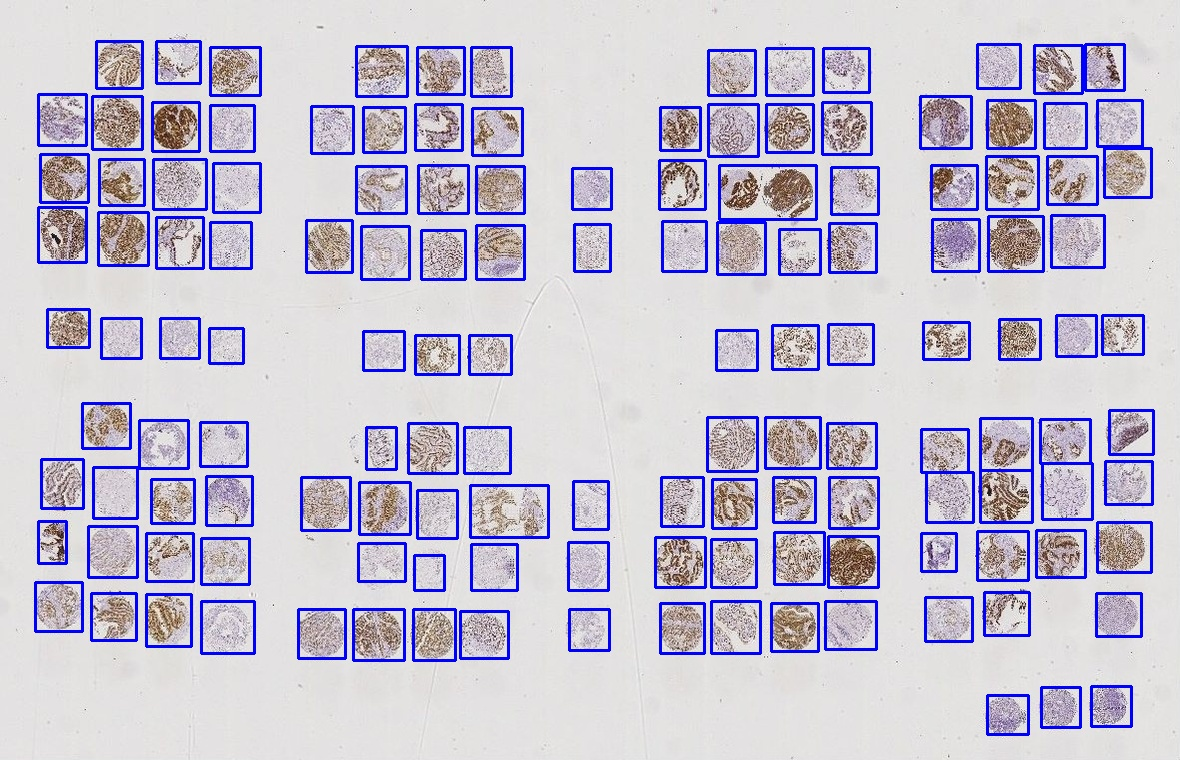
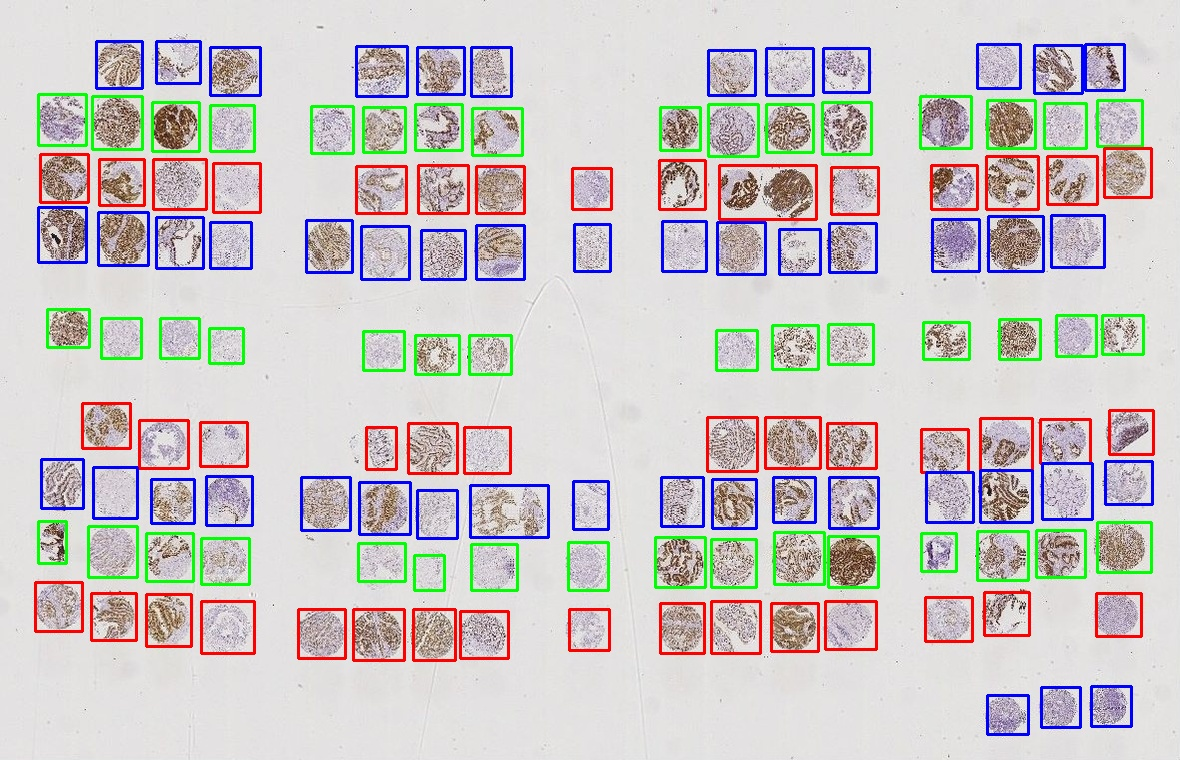
visualize results

diff --git a/core_splitting_lib.py b/core_splitting_lib.py
@@ -219,3 +219,5 @@ def show_objs(objList,image):
         y_start = obj[2]
         y_end = obj[3]
         cv2.rectangle(image,(x_start,y_start),(x_end,y_end),(255,0,0),2)
+    cv2.imshow("show",image)
+    cv2.waitKey(0)
